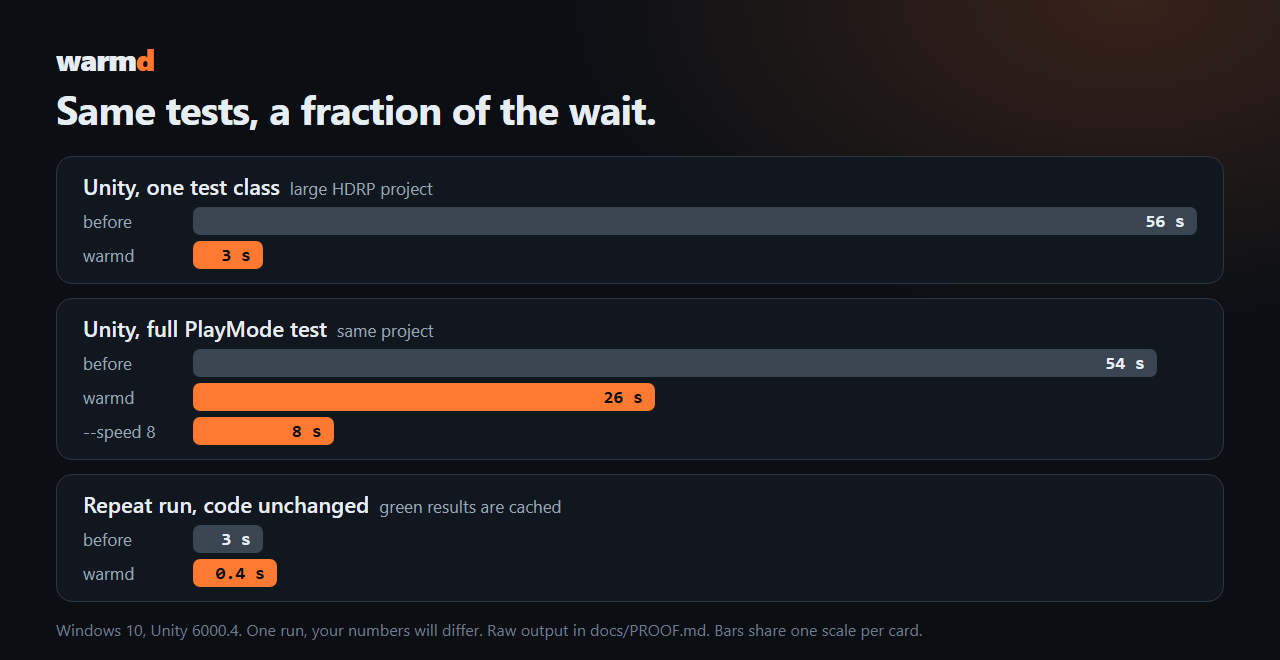
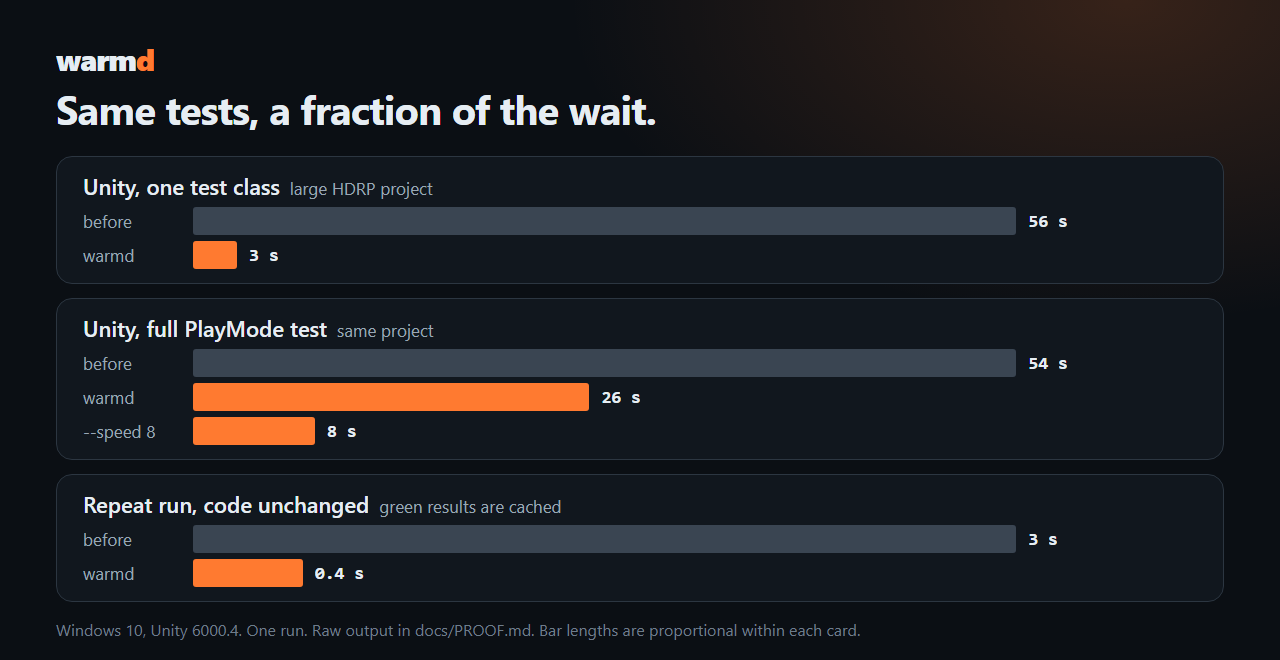
True-scale charts with a check, digest survives UTF-8 locales

diff --git a/docs/assets/tokens.html b/docs/assets/tokens.html
@@ -1,7 +1,7 @@
 <!doctype html>
 <html><head><meta charset="utf-8"><style>
 *{box-sizing:border-box;margin:0}
-html,body{width:1280px;height:700px;overflow:hidden}
+html,body{width:1280px;height:520px;overflow:hidden}
 body{background:#0b0f14;color:#e6edf3;font-family:"Segoe UI",system-ui,sans-serif;padding:44px 56px;position:relative}
 body:before{content:"";position:absolute;inset:0;background:radial-gradient(900px 520px at 88% 0%,rgba(255,122,48,.18),transparent 62%)}
 body>*{position:relative}
@@ -10,27 +10,26 @@ h1{font-size:40px;line-height:1.15;letter-spacing:-.8px;font-weight:700;margin-t
 .card{background:#11171e;border:1px solid #2c3641;border-radius:16px}
 .rows{margin-top:24px;display:flex;flex-direction:column;gap:14px}
 .row{padding:14px 26px}
-.t{font-size:22px;font-weight:600;margin-bottom:6px}
+.t{font-size:22px;font-weight:600;margin-bottom:6px}.t small{font-size:17px;font-weight:400;color:#9aa7b4;margin-left:10px}
 .b{display:grid;grid-template-columns:96px 1fr;align-items:center;gap:14px;margin-top:6px}
 .b i{font-style:normal;font-size:17px;color:#9aa7b4}
-.bar{height:28px;border-radius:7px;display:flex;align-items:center;justify-content:flex-end;padding:0 12px;font:700 18px Consolas,monospace;white-space:nowrap}
-.bef{background:#3a4552;color:#e6edf3}.aft{background:#ff7a30;color:#0b0f14}
-.note{margin-top:14px;padding:12px 26px;font-size:19px;color:#d2dae2;border-color:#ff7a30}
 .foot{position:absolute;left:56px;right:56px;bottom:18px;color:#6e7c8a;font-size:16px}
+.tr{display:flex;align-items:center;gap:12px}
+.bar{height:28px;border-radius:3px;min-width:2px;flex:none}
+.num{font:700 18px Consolas,monospace;white-space:nowrap}
+.bef{background:#3a4552}.aft{background:#ff7a30}
 </style></head><body>
 <div class="logo">warm<span>d</span></div>
 <h1>The agent reads the error, not the log.</h1>
 <div class="rows">
- <div class="card row"><div class="t">Unity, green run</div>
-  <div class="b"><i>raw</i><div class="bar bef" style="width:100%">33,323 bytes</div></div>
-  <div class="b"><i>warmd</i><div class="bar aft" style="width:1%;min-width:110px">41 bytes</div></div></div>
- <div class="card row"><div class="t">Vitest, green run</div>
-  <div class="b"><i>raw</i><div class="bar bef" style="width:100%">270 bytes</div></div>
-  <div class="b"><i>warmd</i><div class="bar aft" style="width:4%;min-width:110px">11 bytes</div></div></div>
- <div class="card row"><div class="t">Vitest, one failure</div>
-  <div class="b"><i>raw</i><div class="bar bef" style="width:100%">877 bytes</div></div>
-  <div class="b"><i>warmd</i><div class="bar aft" style="width:56%">490 bytes</div></div></div>
+<div class="card row"><div class="t">Unity, green run<small>per test run</small></div>
+  <div class="b"><i>raw</i><div class="tr"><div class="bar bef" data-v="33323" style="width:82.0%"></div><span class="num">33,323 bytes</span></div></div>
+  <div class="b"><i>warmd</i><div class="tr"><div class="bar aft" data-v="41" style="width:0.1009%"></div><span class="num">41 bytes</span></div></div>
 </div>
-<div class="card note"><b>Per test run, not per session.</b> A session also pays for reading code and thinking. Failures save less on purpose.</div>
-<div class="foot">Only build and test output is shortened, never your code. Bars share one scale per card.</div>
+<div class="card row"><div class="t">Vitest, green run<small>per test run</small></div>
+  <div class="b"><i>raw</i><div class="tr"><div class="bar bef" data-v="270" style="width:82.0%"></div><span class="num">270 bytes</span></div></div>
+  <div class="b"><i>warmd</i><div class="tr"><div class="bar aft" data-v="11" style="width:3.3407%"></div><span class="num">11 bytes</span></div></div>
+</div>
+</div>
+<div class="foot">Only build and test output is shortened, never your code. Bar lengths are proportional within each card.</div>
 </body></html>

diff --git a/docs/assets/speed.html b/docs/assets/speed.html
@@ -13,23 +13,28 @@ h1{font-size:40px;line-height:1.15;letter-spacing:-.8px;font-weight:700;margin-t
 .t{font-size:22px;font-weight:600;margin-bottom:6px}.t small{font-size:17px;font-weight:400;color:#9aa7b4;margin-left:10px}
 .b{display:grid;grid-template-columns:96px 1fr;align-items:center;gap:14px;margin-top:6px}
 .b i{font-style:normal;font-size:17px;color:#9aa7b4}
-.bar{height:28px;border-radius:7px;display:flex;align-items:center;justify-content:flex-end;padding:0 12px;font:700 18px Consolas,monospace;white-space:nowrap}
-.bef{background:#3a4552;color:#e6edf3}.aft{background:#ff7a30;color:#0b0f14}
 .foot{position:absolute;left:56px;right:56px;bottom:20px;color:#6e7c8a;font-size:16px}
+.tr{display:flex;align-items:center;gap:12px}
+.bar{height:28px;border-radius:3px;min-width:2px;flex:none}
+.num{font:700 18px Consolas,monospace;white-space:nowrap}
+.bef{background:#3a4552}.aft{background:#ff7a30}
 </style></head><body>
 <div class="logo">warm<span>d</span></div>
 <h1>Same tests, a fraction of the wait.</h1>
 <div class="rows">
- <div class="card row"><div class="t">Unity, one test class<small>large HDRP project</small></div>
-  <div class="b"><i>before</i><div class="bar bef" style="width:100%">56 s</div></div>
-  <div class="b"><i>warmd</i><div class="bar aft" style="width:6%;min-width:70px">3 s</div></div></div>
- <div class="card row"><div class="t">Unity, full PlayMode test<small>same project</small></div>
-  <div class="b"><i>before</i><div class="bar bef" style="width:96%">54 s</div></div>
-  <div class="b"><i>warmd</i><div class="bar aft" style="width:46%">26 s</div></div>
-  <div class="b"><i>--speed 8</i><div class="bar aft" style="width:14%;min-width:70px">8 s</div></div></div>
- <div class="card row"><div class="t">Repeat run, code unchanged<small>green results are cached</small></div>
-  <div class="b"><i>before</i><div class="bar bef" style="width:5.4%;min-width:70px">3 s</div></div>
-  <div class="b"><i>warmd</i><div class="bar aft" style="width:1%;min-width:84px">0.4 s</div></div></div>
+<div class="card row"><div class="t">Unity, one test class<small>large HDRP project</small></div>
+  <div class="b"><i>before</i><div class="tr"><div class="bar bef" data-v="56" style="width:82.0%"></div><span class="num">56 s</span></div></div>
+  <div class="b"><i>warmd</i><div class="tr"><div class="bar aft" data-v="3" style="width:4.3929%"></div><span class="num">3 s</span></div></div>
 </div>
-<div class="foot">Windows 10, Unity 6000.4. One run, your numbers will differ. Raw output in docs/PROOF.md. Bars share one scale per card.</div>
+<div class="card row"><div class="t">Unity, full PlayMode test<small>same project</small></div>
+  <div class="b"><i>before</i><div class="tr"><div class="bar bef" data-v="54" style="width:82.0%"></div><span class="num">54 s</span></div></div>
+  <div class="b"><i>warmd</i><div class="tr"><div class="bar aft" data-v="26" style="width:39.4815%"></div><span class="num">26 s</span></div></div>
+  <div class="b"><i>--speed 8</i><div class="tr"><div class="bar aft" data-v="8" style="width:12.1481%"></div><span class="num">8 s</span></div></div>
+</div>
+<div class="card row"><div class="t">Repeat run, code unchanged<small>green results are cached</small></div>
+  <div class="b"><i>before</i><div class="tr"><div class="bar bef" data-v="3" style="width:82.0%"></div><span class="num">3 s</span></div></div>
+  <div class="b"><i>warmd</i><div class="tr"><div class="bar aft" data-v="0.4" style="width:10.9333%"></div><span class="num">0.4 s</span></div></div>
+</div>
+</div>
+<div class="foot">Windows 10, Unity 6000.4. One run. Raw output in docs/PROOF.md. Bar lengths are proportional within each card.</div>
 </body></html>
